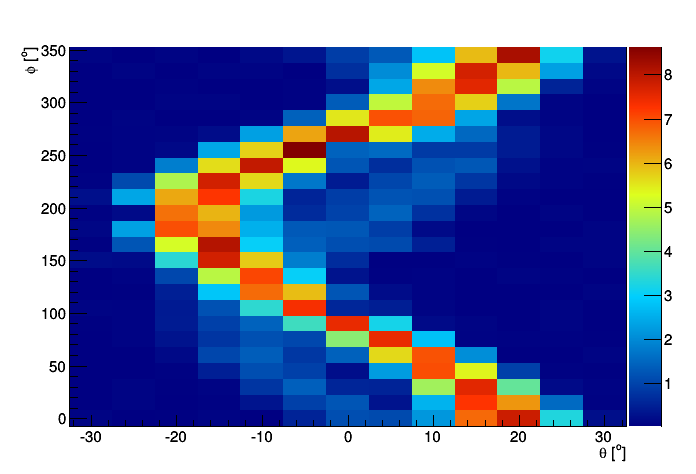
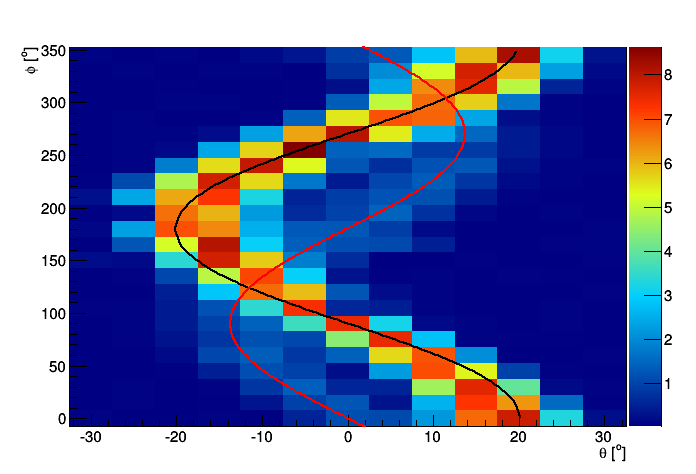
a

diff --git a/prog_fit/histo_aqui.cpp b/prog_fit/histo_aqui.cpp
@@ -1,6 +1,7 @@
 #include <iostream>
 #include "TH2.h"
 #include "TGraph.h"
+#include "TMath.h"
 #include "TCanvas.h"
 
 using namespace std;
@@ -8,17 +9,22 @@ using namespace std;
 void histo_aqui()
 {
 
+  //SINOGRAMA
+  
   TCanvas c;
+  //c = new TCanvas("c","c",700,700);
   
   int phi[24] = {0,15,30,45,60,75,90,105,120,135,150,165,180,195,210,225,240,255,270,285,300,315,330,345};
   int the[13] = {-30,-25,-20,-15,-10,-5,0,5,10,15,20,25,30};
+  //int the[14] = {-32.5,-27.5,-22.5,-17.5,-12.5,-7.5,-2.5,2.5,7.5,12.5,17.5,22.5,27.5,32.5}
+
   
   //int val[312] = {1,1,2,1,1,0,4,1,0,5,2,1,2,2,0,2,1,1,0,1,1,2,0,0,0 ,0 ,0 ,0 ,10,14,14,12,0 ,3 ,0 ,1 ,2 ,1 ,2 ,1 ,1 ,4 ,1 ,0 ,0 ,0 ,1 ,1 ,0  ,1  ,3  ,22 ,32  ,34 ,35 ,43 ,29 ,7  ,0  ,5  ,1  ,2  ,1  ,1  ,2  ,0  ,1  ,2  ,1  ,2  ,1  ,0  ,1 ,8 ,30 ,38,39 ,35,35,46,50,64,49 ,49,47,34,29,14,7 ,3 ,1 ,1 ,2 ,0 ,0 ,2 ,9  ,33 ,43,39 ,22 ,29 ,66 ,101,162,182,154  ,153,151,182,148,115,63 ,38 ,24 ,6  ,2  ,3  ,0  ,3  ,30 ,6  ,40,71 ,87,130,205,239,244,251,258 ,283,246,226,242,248,176,163,113,92 ,31 ,19 ,12 ,29 ,141,133,160,194,206,248,239,170,162,100,108,137,149,132,177,175,218,259,236,192,169,137,115,129,217,250,270 ,193,191 ,118,109,46 ,38 ,6  ,12,30 ,37 ,51 ,39 ,60 ,98 ,151,205,217,265,259,224,268,187,131,130 ,67 ,50 ,8  ,4  ,1  ,4  ,3  ,3,12 ,34 ,46 ,28 ,15 ,16 ,33 ,78 ,114,179,157,138,167,44,30,6,3 ,3,4 ,1 ,2 ,6 ,1 ,1,2 ,12,26,45,34,41,34,34,49,43,43,43,51,1 ,0 ,4 ,0 ,3,2 ,1 ,2 ,1 ,0 ,2 ,2 ,1 ,5 ,24,34,34,41,30,21,3 ,3 ,5 ,2 ,2 ,2 ,0 ,1 ,0,1 ,3 ,1 ,3 ,2 ,0 ,3 ,1 ,1 ,5 ,13,11,17,12,1 ,3 ,3 ,3 ,3 ,3,3,1,0,1,1,0,0,1,2,0,1,0,0,0,1,1,0,1,1,0,2,2,2};
 
-  int val[312] = {0.000,0.020,0.020,0.020,0.020,0.020,0.040,0.000,0.020,0.020,0.200,0.040,0.120,0.060,0.260,0.060,0.025,0.025,0.050,0.033,0.033,0.033,0.033,0.000,0.020,0.000,0.000,0.020,0.020,0.080,0.080,0.080,0.040,0.080,0.180,1.240,2.320,0.180,2.380,1.080,0.075,0.075,0.075,0.000,0.033,0.033,0.000,0.033,0.040,0.020,0.040,0.060,0.160,0.300,0.420,0.400,0.480,1.040,3.400,5.200,6.980,6.660,6.120,4.780,1.825,0.150,0.100,0.033,0.100,0.067,0.033,0.100,0.000,0.060,0.100,0.480,1.020,0.780,0.940,1.180,2.840,4.900,7.760,8.080,6.420,6.000,7.240,7.760,5.600,2.400,0.200,0.033,0.000,0.033,0.000,0.033,0.020,0.320,0.780,1.140,1.360,1.160,1.420,3.440,6.700,7.060,5.780,3.020,2.520,2.220,3.240,5.640,7.925,5.700,2.300,0.100,0.033,0.033,0.000,0.167,0.520,0.940,1.380,0.940,0.820,1.040,3.600,7.340,5.920,3.020,1.820,1.380,1.300,0.640,0.540,1.720,5.325,8.625,6.150,1.400,0.067,0.067,0.033,0.333,1.140,1.240,0.560,0.240,1.400,4.400,7.500,0.580,1.240,0.300,0.660,1.140,1.260,0.980,0.900,0.420,1.225,1.425,8.050,5.500,1.333,0.233,0.700,0.900,1.080,0.300,0.520,2.240,5.640,7.500,3.180,0.460,0.200,0.060,0.040,1.080,0.900,1.440,1.220,1.020,0.675,1.550,5.450,6.967,4.967,2.400,2.033,1.300,2.180,2.580,4.640,7.000,6.940,2.780,0.180,0.100,0.080,0.080,0.040,0.480,0.180,0.740,1.160,1.340,1.175,0.850,2.475,6.767,6.700,6.400,5.167,2.800,6.720,7.260,7.560,5.380,2.040,0.080,0.100,0.020,0.020,0.020,0.080,0.040,0.020,0.120,0.420,0.800,1.275,0.850,1.500,2.367,5.733,7.567,7.733,5.933,7.820,6.300,4.000,0.940,0.020,0.060,0.020,0.020,0.020,0.000,0.040,0.020,0.020,0.020,0.080,0.160,0.275,0.425,0.425,0.233,1.700,4.900,5.967,8.200,3.300,1.540,0.180,0.060,0.020,0.060,0.000,0.000,0.020,0.060,0.020,0.000,0.020,0.000,0.020,0.080,0.075,0.125,0.125,0.100,0.100,0.533,2.300,3.133,0.240,0.060,0.080,0.040,0.000,0.040,0.020,0.020,0.000,0.020,0.000,0.000,0.000,0.020,0.020,0.040,0.100,0.050,0.025,0.033,0.033,0.100,0.167,0.300};
+  double val[312] = {0.000,0.020,0.020,0.020,0.020,0.020,0.040,0.000,0.020,0.020,0.200,0.040,0.120,0.060,0.260,0.060,0.025,0.025,0.050,0.033,0.033,0.033,0.033,0.000,0.020,0.000,0.000,0.020,0.020,0.080,0.080,0.080,0.040,0.080,0.180,1.240,2.320,0.180,2.380,1.080,0.075,0.075,0.075,0.000,0.033,0.033,0.000,0.033,0.040,0.020,0.040,0.060,0.160,0.300,0.420,0.400,0.480,1.040,3.400,5.200,6.980,6.660,6.120,4.780,1.825,0.150,0.100,0.033,0.100,0.067,0.033,0.100,0.000,0.060,0.100,0.480,1.020,0.780,0.940,1.180,2.840,4.900,7.760,8.080,6.420,6.000,7.240,7.760,5.600,2.400,0.200,0.033,0.000,0.033,0.000,0.033,0.020,0.320,0.780,1.140,1.360,1.160,1.420,3.440,6.700,7.060,5.780,3.020,2.520,2.220,3.240,5.640,7.925,5.700,2.300,0.100,0.033,0.033,0.000,0.167,0.520,0.940,1.380,0.940,0.820,1.040,3.600,7.340,5.920,3.020,1.820,1.380,1.300,0.640,0.540,1.720,5.325,8.625,6.150,1.400,0.067,0.067,0.033,0.333,1.140,1.240,0.560,0.240,1.400,4.400,7.500,0.580,1.240,0.300,0.660,1.140,1.260,0.980,0.900,0.420,1.225,1.425,8.050,5.500,1.333,0.233,0.700,0.900,1.080,0.300,0.520,2.240,5.640,7.500,3.180,0.460,0.200,0.060,0.040,1.080,0.900,1.440,1.220,1.020,0.675,1.550,5.450,6.967,4.967,2.400,2.033,1.300,2.180,2.580,4.640,7.000,6.940,2.780,0.180,0.100,0.080,0.080,0.040,0.480,0.180,0.740,1.160,1.340,1.175,0.850,2.475,6.767,6.700,6.400,5.167,2.800,6.720,7.260,7.560,5.380,2.040,0.080,0.100,0.020,0.020,0.020,0.080,0.040,0.020,0.120,0.420,0.800,1.275,0.850,1.500,2.367,5.733,7.567,7.733,5.933,7.820,6.300,4.000,0.940,0.020,0.060,0.020,0.020,0.020,0.000,0.040,0.020,0.020,0.020,0.080,0.160,0.275,0.425,0.425,0.233,1.700,4.900,5.967,8.200,3.300,1.540,0.180,0.060,0.020,0.060,0.000,0.000,0.020,0.060,0.020,0.000,0.020,0.000,0.020,0.080,0.075,0.125,0.125,0.100,0.100,0.533,2.300,3.133,0.240,0.060,0.080,0.040,0.000,0.040,0.020,0.020,0.000,0.020,0.000,0.000,0.000,0.020,0.020,0.040,0.100,0.050,0.025,0.033,0.033,0.100,0.167,0.300};
 
   
-  TH2S *hist = new TH2S("Sinograma","Sinograma",13,-30,30,24,0,345);
+ TH2D *hist = new TH2D("Sinograma","",13,-32.5,32.5,24,-7.5,352.5);
   
   int k = 0;
   
@@ -26,20 +32,143 @@ void histo_aqui()
   {
     for (int j=0; j<24;j++)
     {
-      hist->Fill(the[i],phi[j],2000*val[k]);
+
+      if(val[k]<=0)
+	val[k]=0.1;
+      hist->Fill(the[i],phi[j],val[k]);
       k++;
     }
   }
 
   hist->GetXaxis()->SetTitle("#theta [^{o}]");
   hist->GetYaxis()->SetTitle("#phi [^{o}]");
+  hist->GetYaxis()->SetTitleOffset(1);
+  //hist->GetZaxis()->SetTitleOffset(2);
 
   
-  //hist->Draw("sph");
-  hist->Draw("");
-  c.Print("sinograma.png");
+    const Int_t NRGBs = 5;
+    const Int_t NCont = 500;
 
-  //TGraph *hist = new TGraph("sinograma.txt");
-  //hist->Draw("A*");
+    Double_t stops[NRGBs] = { 0.00, 0.34, 0.61, 0.84, 1.00 };
+    Double_t red[NRGBs]   = { 0.00, 0.00, 0.87, 1.00, 0.51 };
+    Double_t green[NRGBs] = { 0.00, 0.81, 1.00, 0.20, 0.00 };
+    Double_t blue[NRGBs]  = { 0.51, 1.00, 0.12, 0.00, 0.00 };
+    Double_t black[NRGBs]  = { 0.00, 0.00, 0.00, 0.00, 0.00 };
+    TColor::CreateGradientColorTable(NRGBs, stops, red, green, blue,NCont);
+    gStyle->SetNumberContours(NCont);
+  
+
+    //Fonte forte
+    TF1 *f = new TF1("a","180/TMath::Pi()*TMath::ACos(2.7297*TMath::Tan(x*TMath::Pi()/180))",-20.32,20.32);
+    TF1 *f2 = new TF1("b","360-180/TMath::Pi()*TMath::ACos(2.7297*TMath::Tan(x*TMath::Pi()/180))",-20.32,20.32);
+    f->SetLineColor(1);
+    f2->SetLineColor(1);
+
+    //Fonte fraca
+    double limit = 13.863;
+    TF1 *ff = new TF1("aa","-90+180/TMath::Pi()*TMath::ACos(4.0945*TMath::Tan(x*TMath::Pi()/180))",-limit,limit);
+    TF1 *ff2 = new TF1("bb","360-90+180/TMath::Pi()*TMath::ACos(4.0945*TMath::Tan(x*TMath::Pi()/180))",-limit,limit);
+    TF1 *ff3 = new TF1("bb","360-90-180/TMath::Pi()*TMath::ACos(4.0945*TMath::Tan(x*TMath::Pi()/180))",-limit,limit);
+    f->SetLineColor(1);
+    f2->SetLineColor(1);
+
+
+  gStyle->SetOptStat(0); //tirar a tabela de estatisticas
+  hist->Draw("colz");
+  f->Draw("SAME");
+  f2->Draw("SAME");
+  ff->Draw("SAME");
+  ff2->Draw("SAME");
+  ff3->Draw("SAME");
+  //hist->Draw("");
+  c.Print("sinograma.png");
+  
+  
+
+
+
+
+
+
+
+
+
+
+
+
+
+
+
+
+
+
+
+  
+  
+  
+  
+  //RECONSTRUCAO
+  /*
+  //c = new TCanvas("c","c",600,700);
+  TCanvas c;
+
+  int X[15] = {-35,-30,-25,-20,-15,-10,-5,0,5,10,15,20,25,30,35};
+  int Y[15] = {-35,-30,-25,-20,-15,-10,-5,0,5,10,15,20,25,30,35};
+
+  //Reconstrucao
+  double val[225] = {-0.00520940667919827,-0.0709903373261967,-0.0192021681368049,0.0459732184123753,-0.00188209035763080,-0.0190574410109047,-0.00994424174645489,0.00600106786774594,0.0339256519981210,-0.0166314126427618,-0.0307337444399340,0.0409538239315658,0.0463509679218066,0.0785027128925708,-0.000549095334295209,0.0858289719581794,0.0498363146745085,-0.0347504201931969,-0.0274684256061477,0.0401947585791377,-0.00685009330213803,-0.00806063081602896,0.0710504736151663,0.0138128225223246,-0.0341392431872331,0.0153204463207313,0.0132174165248511,0.0294944383569303,0.0393882660691333,0.0560559402431964,0.00658024321511153,0.0390109031903350,0.0487347582220051,0.0127642370447331,-0.0219678635255750,-0.0128546230764779,0.0114499951687109,0.0228518317089330,0.0135053409067943,-0.0243320134794449,0.0421953662196946,-0.0262312189584713,0.00536127689310415,0.0243997024966558,0.0277576195690852,-0.100685900662467,-0.0539066132094292,0.0154023515633108,0.00730171369427641,0.0553027647113870,0.0104639531439373,0.00555342379769692,0.00397914718035521,0.00602574561320953,0.00221654148702547,0.0696945428585631,0.0105814695486826,0.0239234351464344,-0.0127292712310891,-0.00965873198125207,0.172751296025664,0.0717239847935501,-0.0228696285811282,-0.0171630384477138,-0.0219065125933504,-0.00629989937722555,0.0524452050212712,0.0284454334978929,0.00760550794965709,0.0465557999950586,0.0730493000353285,0.111447003099075,0.0151469453123442,-0.0587657783386551,-0.00219920329215897,-0.134528295356626,-0.0561003344784182,0.0270942038923818,0.0927134457621534,0.0830151415843351,0.0382788865109664,0.0236796016846249,-0.0491432349463673,0.0583175225513930,0.131600178914415,0.472369685765033,0.554133675572123,0.142209423174551,-0.0997554011377425,-0.150886760340849,-0.0293083552295649,-0.0542834518663871,-0.0930924628587310,-0.132731899072286,-0.0957197296842600,-0.0453509963800301,0.0519161342407039,0.153953887218686,0.117827671917248,0.510047035175596,1.43327964034555,1.49282400653035,0.390298454477733,0.0597333264813060,0.0506078947336077,0.154980712518251,0.154178649658435,0.136086564821834,0.122457787629549,0.0773728064745736,0.0304023305473177,-0.0269511704945112,-0.204367601034364,-0.00687546817418004,0.811421265683825,2.26338833123813,2.55642825879035,1.08126270768637,0.316891556498562,0.134764601643456,-0.0767606602227425,-0.0887142785469381,-0.0940283396621366,-0.102555536907785,-0.0995538428096898,-0.0523679635359294,0.0776980858390827,0.199960780829425,0.0941995421633696,0.343631286007208,1.24130919579834,1.47352796973766,0.573860005020020,0.0963073405697264,0.0969567070991464,-0.112711750544477,-0.0639290632954773,-0.0228017737614741,0.0108871194576194,0.0346320411946836,0.0748776511473800,0.218087043256180,0.264251291999909,0.252635075908959,0.144725927538097,0.424281012783804,0.529275781318427,0.161798490493478,-0.115501479168563,-0.0975735150342475,0.124615172919373,0.0552628094379013,0.00596031520774881,0.0203345529451148,0.00279162253051885,0.0445816168663150,0.206856563162534,0.350977197788402,0.253923887523900,0.117296138203207,0.0532153851264903,0.105040318140697,0.0619302528443446,-0.0961925127160612,0.0874955221810868,-0.0623461711433342,-0.0214402333838552,0.0256722505811896,-0.0523594510072805,-0.0368781828083298,-0.0185625622577352,0.0743060913453821,0.177894671319753,0.151384677158234,0.0465291865834274,0.0333461329679331,0.0397127140742411,-0.0129091184511499,-0.0855635151906833,0.00911351466532341,-0.00121514571761029,0.00873920295626994,-0.0315804473923499,-0.0520283614769460,-0.00510955507222760,0.0207807876039525,0.0118284049241806,0.0662355226443711,0.0517413534323803,-0.0102648291877522,0.0707205899242250,0.0286966930352225,-0.0412586999650648,-0.0255227456663609,0.00343812348061685,0.0419493313622007,-0.00486211095526946,-0.0449383707311174,-0.00564803442711459,0.0459998560611763,-0.0214859361182629,0.0279181291259097,0.0673813768813141,-0.0174018344010201,-0.0280867718308667,0.0584001644767248,0.0710835766733431,0.00302168982779183,0.0187863377307812,-0.00402802448468536,-0.0115722813972465,-0.0367263622024727,-0.0215665455253067,0.0468668370555382,-0.0105263613129995,0.000437330613542668,0.0390509041840031,-0.0406153729084183,0.0213758110998609,-0.00381441135139487,0.0187220014652449,0.0628227617394062,0.0130219551453507,0.0978172397309866,-0.0677330465286598};
+ 
+
+  TH2D *hist = new TH2D("Reconstrucao","",15,-37.5,37.5,15,-37.5,37.5);
+  
+  int k = 0;
+  
+  for (int i=0; i<15; i++)
+  {
+    for (int j=0; j<15;j++)
+    {
+      //if(val[k]<0.1)
+      //val[k]=0.01;
+      hist->Fill(X[j],Y[i],val[k]);
+      //hist->SetBinContent(X[j],Y[i],val[k]);
+      k++;
+    }
+  }
+
+  //hist->GetZaxis()->SetRangeUser(-0.05, 3); // ... set the range ...
+  
+  //hist->GetXaxis()->SetTitle("X [^{o}]");
+  //hist->GetYaxis()->SetTitle("Y [^{o}]");
+
+  
+  
+    const Int_t NRGBs = 5;
+    const Int_t NCont = 50;
+
+    Double_t stops[NRGBs] = { 0.00, 0.34, 0.61, 0.84, 1.00 };
+    Double_t red[NRGBs]   = { 0.00, 0.00, 0.87, 1.00, 0.51 };
+    Double_t green[NRGBs] = { 0.00, 0.81, 1.00, 0.20, 0.00 };
+    Double_t blue[NRGBs]  = { 0.51, 1.00, 0.12, 0.00, 0.00 };
+    Double_t black[NRGBs]  = { 0.00, 0.00, 0.00, 0.00, 0.00 };
+    //TColor::CreateGradientColorTable(NRGBs, stops, red, green, blue,NCont);
+    TColor::CreateGradientColorTable(NRGBs, stops, red, green,black,NCont);
+    gStyle->SetNumberContours(NCont);
+  
+
+  hist->GetXaxis()->SetTitle("X");
+  hist->GetYaxis()->SetTitle("Y");
+  hist->GetZaxis()->SetTitle("Z");
+
+
+  //hist->Draw("sph");
+  gStyle->SetOptStat(0);
+  gStyle->SetPadTickY(2);
+  //hist->Draw("COLZ"); //normal
+  hist->Draw("contz"); //countour
+  //hist->Draw("SURF2Z"); //3D
+  c.Print("recons_cont.png");
+  
+  
+  */
   
 }
